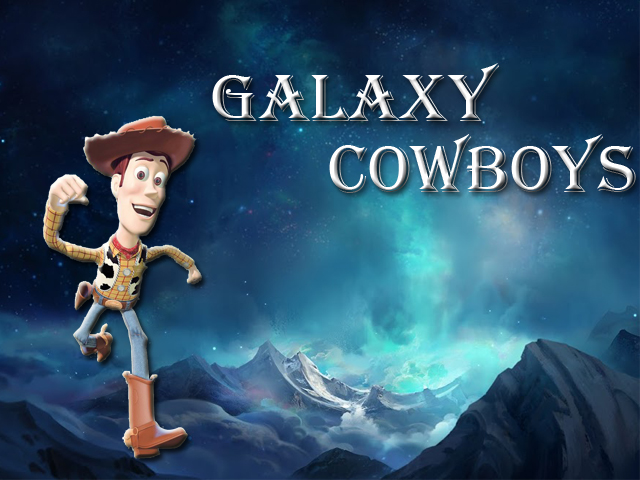
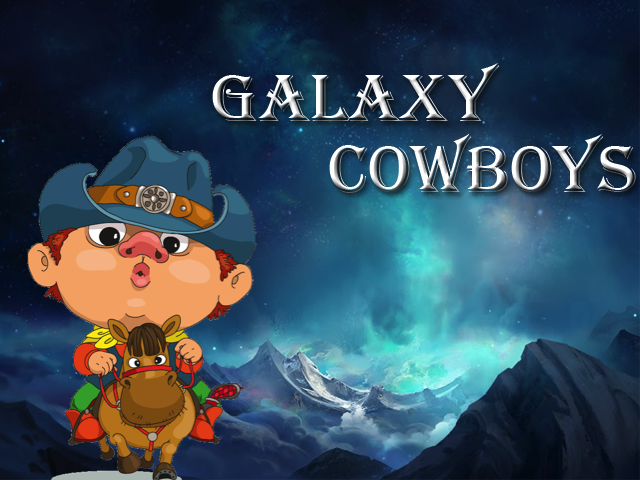
Replace Woody in bg menu screen with another cowboy

Changed region(s): [[0.0312, 0.2188, 0.4062, 1.0]]

diff --git a/scripts/scenes/play.js b/scripts/scenes/play.js
@@ -196,10 +196,18 @@ var scenes;
             this._enemies = keepers;
         };
         PlayScene.prototype._updateProjectiles = function () {
+            var _this = this;
             if (this._projectiles.length) {
                 var keepers_1 = [];
                 this._projectiles.forEach(function (projectile) {
                     projectile.update();
+                    _this._obstra.forEach(function (obstra) {
+                        if (projectile.name == "bullet") {
+                            if (managers.Collision.check(obstra, projectile)) {
+                                _this.removeObject(projectile);
+                            }
+                        }
+                    });
                     if (projectile != null) {
                         keepers_1.push(projectile);
                     }

diff --git a/scripts/objects/destructible.js b/scripts/objects/destructible.js
@@ -27,15 +27,11 @@ var objects;
         Destructible.prototype.move = function () { };
         Destructible.prototype.attack = function () { };
         Destructible.prototype.collide = function (other) {
-            if (other instanceof objects.GameObject) {
-                console.log(this.lastValidPosition);
-                this.hp = 0;
-                this.x = this.lastValidPosition.x;
-                this.y = this.lastValidPosition.y;
+            if (other instanceof objects.Projectile) {
+                this.hp -= 1;
             }
-            else {
-                this.lastValidPosition.x = this.x;
-                this.lastValidPosition.y = this.y;
+            if (this.hp <= 0) {
+                this.destroy();
             }
         };
         Destructible.prototype.destroy = function () {

diff --git a/scripts/objects/destructible.ts b/scripts/objects/destructible.ts
@@ -17,14 +17,11 @@ module objects {
         public attack() {}
 
         public collide(other:objects.GameObject) {
-            if (other instanceof objects.GameObject) {
-                console.log(this.lastValidPosition);
-                this.hp=0;
-                this.x = this.lastValidPosition.x;
-                this.y = this.lastValidPosition.y;
-            } else {
-                this.lastValidPosition.x = this.x;
-                this.lastValidPosition.y = this.y;
+            if (other instanceof objects.Projectile) {
+                this.hp -= 1;
+            }
+            if (this.hp <= 0) {
+                this.destroy();
             }
         }
 

diff --git a/scripts/scenes/play.ts b/scripts/scenes/play.ts
@@ -186,6 +186,14 @@ module scenes {
                 this._projectiles.forEach(projectile => {
                     projectile.update();
 
+                    this._obstra.forEach(obstra => {
+                        if (projectile.name == "bullet") {
+                            if (managers.Collision.check(obstra, projectile)) {
+                                this.removeObject(projectile);
+                            }
+                        }
+                    });
+
                     if (projectile != null) {
                         keepers.push(projectile);
                     }
